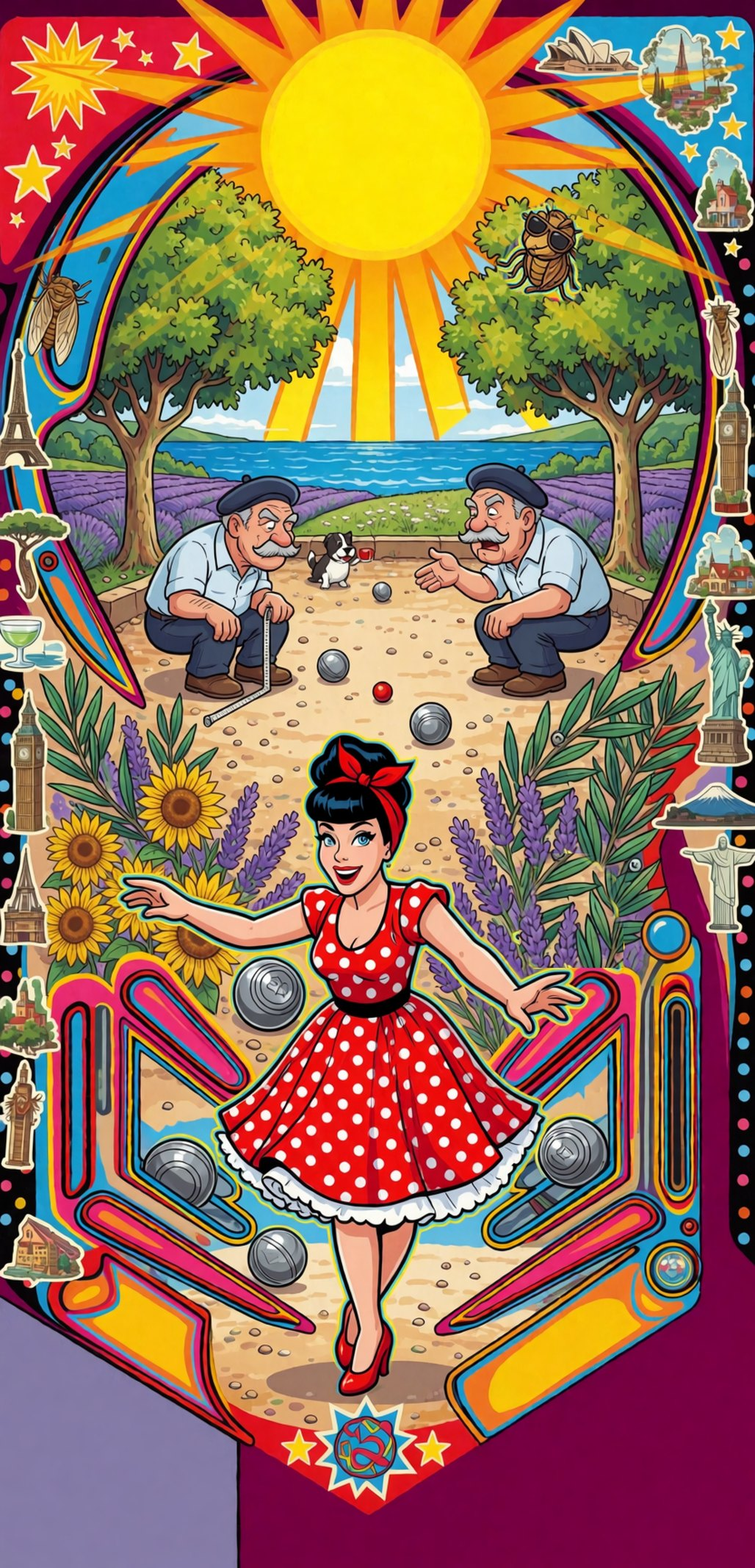
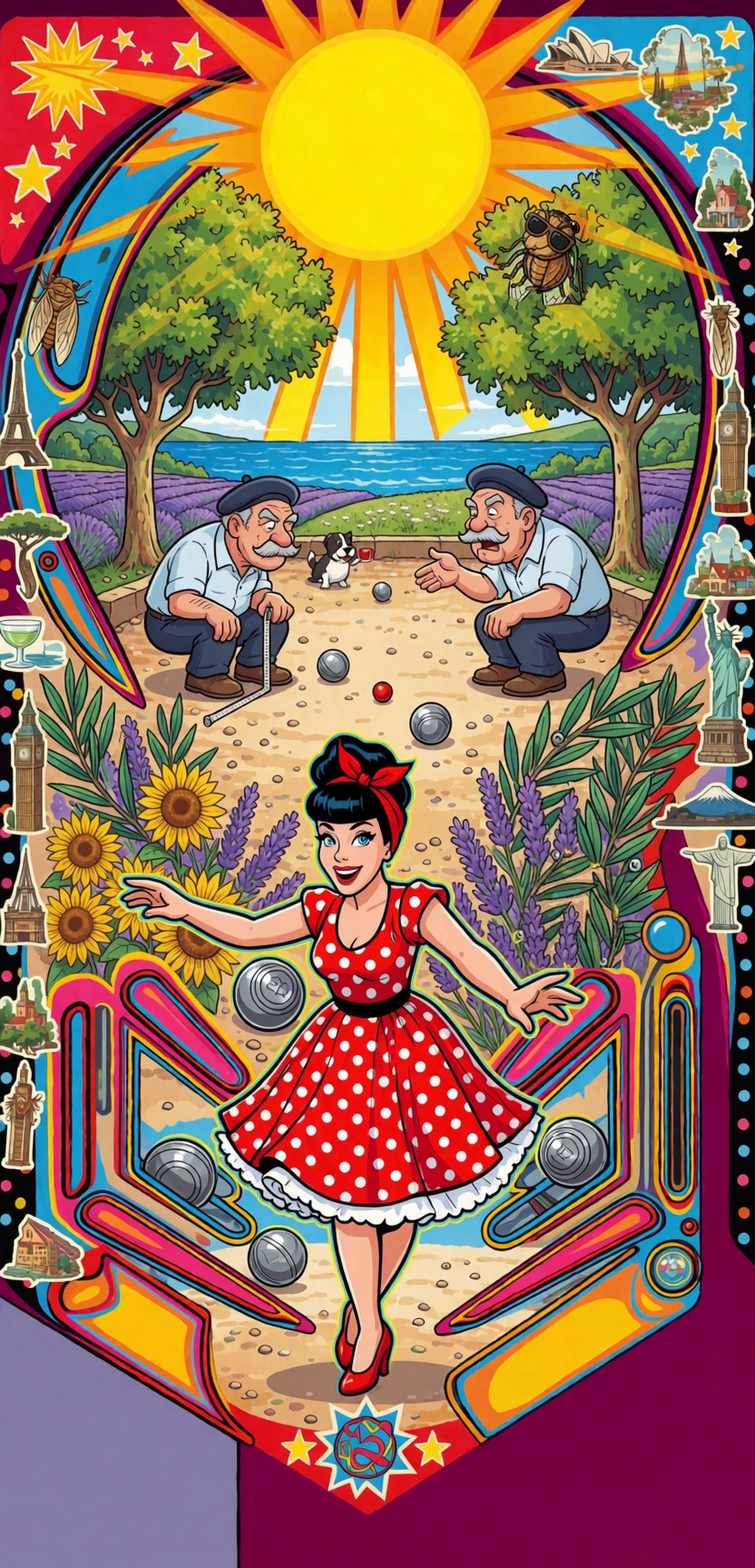
Plateau : cigale fondue dans l'arbre par inpainting Krea 2
outils/lissage_krea2.py : inpainting ComfyUI à faible débruitage sur les deux retouches (anneau
sur le bord de la cigale à 0,70, ancienne place à 0,55), seule la zone masquée est recollée ;
plateau retenu = variante 11k (graine 9).

Changed region(s): [[0.6848, 0.5258, 0.8405, 0.6186], [0.6537, 0.1237, 0.7782, 0.2165]]

diff --git a/outils/lissage_krea2.py b/outils/lissage_krea2.py
@@ -1,0 +1,114 @@
+#!/usr/bin/env python3
+"""Fondu Krea 2 (ComfyUI, inpainting à faible débruitage) des retouches du plateau :
+la cigale collée dans l'arbre et son ancienne place comblée par la lavande.
+
+Chaque zone : découpe 256 × 256 autour du masque, agrandie à 1024, VAEEncode → SetLatentNoiseMask →
+KSampler (débruitage partiel) → VAEDecode ; seule la zone masquée (bords fondus) est recollée,
+ramenée à sa taille, le reste du plateau reste au pixel près.
+
+    python3 outils/lissage_krea2.py [--noeud http://192.168.1.210:8188] [--graine 5]
+Entrée : assets/brut/plateau_11c.png + masques (outils/retouche_plateau.py) ; sortie : plateau_11k.png
+"""
+import argparse
+import numpy as np
+import io
+import json
+import os
+import sys
+import time
+import urllib.request
+import uuid
+from pathlib import Path
+
+from PIL import Image, ImageFilter
+
+STUDIO = Path(os.environ.get("CHAT_STUDIO_DIR", "~/Projets/Dépots_Privés/chat-studio")).expanduser()
+sys.path.insert(0, str(STUDIO))
+import comfyui_client as cc  # noqa: E402
+from presets.dict_styles import STYLE_PRESETS  # noqa: E402
+
+BRUT = Path(__file__).resolve().parent.parent / "assets" / "brut"
+STYLE = STYLE_PRESETS["🎨 [Comics] Moderne Cell-Shading (Défaut)"]
+ZONES = [
+    # (masque, dilatation px, érosion px (0 = disque plein ; > 0 = anneau sur le bord seulement), débruitage, description)
+    ("haut", 10, 9, 0.70, "a funny cartoon cicada wearing black sunglasses sitting on a leafy green plane tree branch, "
+                       "bright summer sunlight and yellow sun rays behind, flat vintage 1970s pinball art"),
+    ("bas", 10, 0, 0.55, "lavender sprigs and long green olive leaves, flat vintage 1970s pinball art"),
+]
+TAILLE, ECHELLE = 256, 4
+
+
+def envoyer(base, img, nom):
+    """POST /upload/image (multipart) ; renvoie le nom côté ComfyUI."""
+    buf = io.BytesIO(); img.save(buf, "PNG")
+    limite = uuid.uuid4().hex
+    corps = (f"--{limite}\r\nContent-Disposition: form-data; name=\"image\"; filename=\"{nom}\"\r\n"
+             f"Content-Type: image/png\r\n\r\n").encode() + buf.getvalue() + \
+            f"\r\n--{limite}\r\nContent-Disposition: form-data; name=\"overwrite\"\r\n\r\ntrue\r\n--{limite}--\r\n".encode()
+    req = urllib.request.Request(f"{base}/upload/image", data=corps,
+                                 headers={"Content-Type": f"multipart/form-data; boundary={limite}"})
+    return json.load(urllib.request.urlopen(req, timeout=60))["name"]
+
+
+def graphe(image, masque, texte, graine, debruitage):
+    return {
+        "1": {"class_type": "UNETLoader", "inputs": {"unet_name": "krea2_turbo_fp8_scaled.safetensors", "weight_dtype": "default"}},
+        "3": {"class_type": "ModelSamplingAuraFlow", "inputs": {"model": ["1", 0], "shift": 1.15}},
+        "4": {"class_type": "CLIPLoader", "inputs": {"clip_name": "qwen3vl_4b_fp8_scaled.safetensors", "type": "krea2", "device": "default"}},
+        "5": {"class_type": "VAELoader", "inputs": {"vae_name": "qwen_image_vae.safetensors"}},
+        "6": {"class_type": "CLIPTextEncode", "inputs": {"text": texte, "clip": ["4", 0]}},
+        "7": {"class_type": "CLIPTextEncode", "inputs": {"text": "", "clip": ["4", 0]}},
+        "8": {"class_type": "ConditioningZeroOut", "inputs": {"conditioning": ["7", 0]}},
+        "13": {"class_type": "LoadImage", "inputs": {"image": image}},
+        "14": {"class_type": "LoadImageMask", "inputs": {"image": masque, "channel": "red"}},
+        "15": {"class_type": "VAEEncode", "inputs": {"pixels": ["13", 0], "vae": ["5", 0]}},
+        "16": {"class_type": "SetLatentNoiseMask", "inputs": {"samples": ["15", 0], "mask": ["14", 0]}},
+        "10": {"class_type": "KSampler", "inputs": {"model": ["3", 0], "positive": ["6", 0], "negative": ["8", 0],
+                                                   "latent_image": ["16", 0], "seed": graine, "steps": 8, "cfg": 1.0,
+                                                   "sampler_name": "euler", "scheduler": "simple", "denoise": debruitage}},
+        "11": {"class_type": "VAEDecode", "inputs": {"samples": ["10", 0], "vae": ["5", 0]}},
+        "12": {"class_type": "SaveImage", "inputs": {"images": ["11", 0], "filename_prefix": "fanny-pinball/lissage"}},
+    }
+
+
+def main():
+    ap = argparse.ArgumentParser()
+    ap.add_argument("--noeud", default="http://192.168.1.210:8188")
+    ap.add_argument("--graine", type=int, default=5)
+    ap.add_argument("--zones", nargs="*", default=[], help="haut, bas (défaut : les deux)")
+    ap.add_argument("--depart", default="plateau_11c.png", help="image de départ dans assets/brut")
+    a = ap.parse_args()
+    plateau = Image.open(BRUT / a.depart).convert("RGB")
+    zones = [z for z in ZONES if not a.zones or z[0] in a.zones]
+    for nom, dil, ero, deb, desc in zones:
+        m = Image.open(BRUT / f"plateau_11c_masque_{nom}.png").convert("L")
+        x0, y0, x1, y1 = m.getbbox()
+        cx, cy = (x0 + x1) // 2, (y0 + y1) // 2
+        box = (max(0, cx - TAILLE // 2), max(0, cy - TAILLE // 2))
+        box = (min(box[0], plateau.width - TAILLE), min(box[1], plateau.height - TAILLE))
+        box = (*box, box[0] + TAILLE, box[1] + TAILLE)
+        mc = m.crop(box).point(lambda v: 255 if v > 128 else 0)
+        zone = mc.filter(ImageFilter.MaxFilter(2 * (dil // 2) + 1)).filter(ImageFilter.MaxFilter(2 * (dil // 2) + 1))
+        if ero:   # anneau : on garde intact le cœur du motif, on ne repeint que son bord (liseré, raccord)
+            coeur = mc.filter(ImageFilter.MinFilter(2 * (ero // 2) + 1)).filter(ImageFilter.MinFilter(2 * (ero // 2) + 1))
+            zone = Image.fromarray(np.minimum(np.asarray(zone), 255 - np.asarray(coeur)))
+        big = plateau.crop(box).resize((TAILLE * ECHELLE,) * 2, Image.LANCZOS)
+        bigm = zone.filter(ImageFilter.GaussianBlur(3)).resize((TAILLE * ECHELLE,) * 2, Image.LANCZOS)
+        img_n = envoyer(a.noeud, big, f"fanny_lissage_{nom}.png")
+        msk_n = envoyer(a.noeud, bigm.convert("RGB"), f"fanny_lissage_{nom}_masque.png")
+        t0 = time.time()
+        pid = cc._queue_prompt(graphe(img_n, msk_n, f"{desc}. {STYLE}", a.graine, deb), base=a.noeud)
+        res = cc._wait_for_result(pid, timeout=1800, base=a.noeud)
+        info = res["outputs"]["12"]["images"][0]
+        out = Image.open(io.BytesIO(cc._fetch_image(info["filename"], info.get("subfolder", ""), info.get("type", "output"),
+                                                    base=a.noeud))).convert("RGB")
+        out.save(BRUT / f"_lissage_{nom}_1024.png")
+        petit = out.resize((TAILLE, TAILLE), Image.LANCZOS)
+        plateau.paste(petit, box[:2], zone.filter(ImageFilter.GaussianBlur(5)))
+        print(f"zone {nom} : {box}, débruitage {deb}, {time.time() - t0:.0f} s", flush=True)
+    plateau.save(BRUT / "plateau_11k.png")
+    print("ok", BRUT / "plateau_11k.png")
+
+
+if __name__ == "__main__":
+    main()

diff --git a/outils/retouche_plateau.py b/outils/retouche_plateau.py
@@ -4,7 +4,8 @@ près du soleil. Contour tracé à la main autour de son liseré ; son ancienne 
 lavande située juste au-dessus.
 
     python3 outils/retouche_plateau.py          # assets/brut/plateau_11.png → assets/brut/plateau_11c.png
-    python3 outils/preparer_assets.py plateau=11c
+    python3 outils/lissage_krea2.py             # facultatif : fondu Krea 2 → plateau_11k.png
+    python3 outils/preparer_assets.py plateau=11c  (ou 11k)
 """
 from pathlib import Path
 
@@ -33,8 +34,14 @@ def main():
     # poser dans l'arbre, un peu plus petite et inclinée
     c2 = cig.resize((int(cig.width * 0.85), int(cig.height * 0.85)), Image.LANCZOS)
     c2 = c2.rotate(-12, expand=True, resample=Image.BICUBIC)
-    out.paste(c2, (DEST[0] - c2.width // 2, DEST[1] - c2.height // 2), c2)
+    pos = (DEST[0] - c2.width // 2, DEST[1] - c2.height // 2)
+    out.paste(c2, pos, c2)
     out.save(BRUT / "plateau_11c.png")
+    # masques pour le lissage Krea 2 (outils/lissage_krea2.py) : nouvelle place, ancienne place
+    haut = Image.new("L", im.size, 0)
+    haut.paste(c2.getchannel("A"), pos)
+    haut.save(BRUT / "plateau_11c_masque_haut.png")
+    m.save(BRUT / "plateau_11c_masque_bas.png")
     print("ok", BRUT / "plateau_11c.png")
 
 
